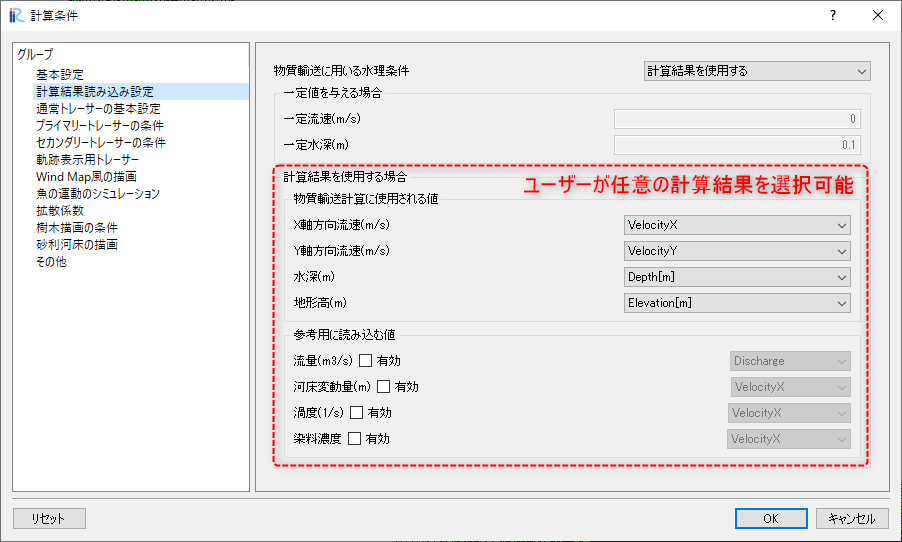
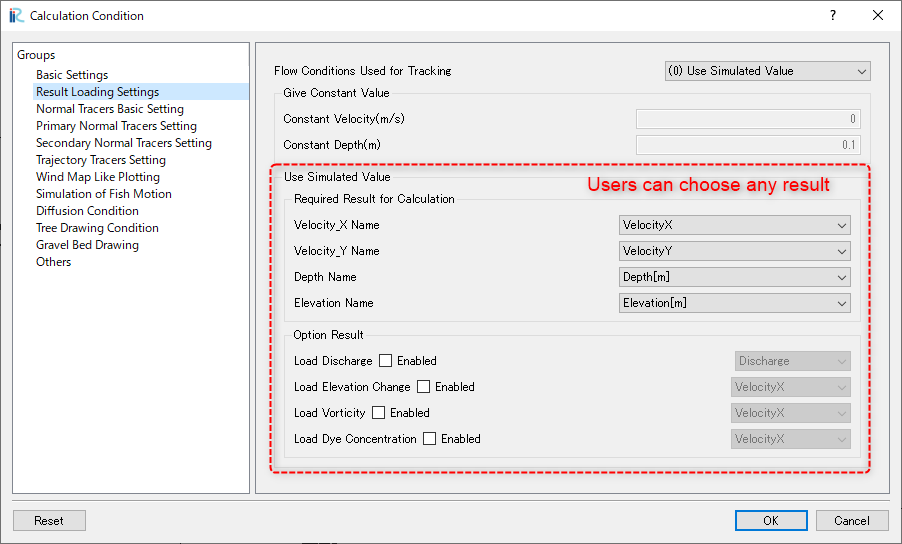
文章、画像の調整

diff --git a/source/03_Examples/03_Real_River.rst b/source/03_Examples/03_Real_River.rst
@@ -312,7 +312,7 @@ Launching GELATO and Importing Grid
 From the iRIC startup screen, select [New Project], choose "GELATO ver2.x" from the solver selection screen, and click "OK".
 
 .. figure:: images/01/GELATO/kido.png
-   :width: 800pt
+   :width: 60%
 
    : Selecting and Launching GELATO
 
@@ -324,28 +324,28 @@ The GELATO session starts, and a dialog for selecting the input CGNS file appear
 
    : Launching GELATO
   
-Click the `...` button to open the file selection dialog, and select the CGNS file of the Nays2d+Flow calculation result.
+Click the `...` button to open the file selection dialog, and select the CGNS file of the "Nays2d+Flow" calculation result.
 
 .. figure:: images/03/GELATO/import_grid_1.png
    :width: 60%
 
    : Selecting the Calculation Result CGNS File
 
-The information of the selected CGNS file is displayed in the dialog, click `OK`.
+The information of the selected CGNS file is displayed in the dialog, click :guilabel:`OK`.
 
 .. figure:: images/03/GELATO/import_grid_2.png
    :width: 30%
 
    : Selecting the Calculation Result CGNS File
 
-A dialog asking whether to import the grid appears, click `Yes`.
+A dialog asking whether to import the grid appears, click :guilabel:`Yes`.
 
 .. figure:: images/01/GELATO/import_grid_3.png
    :width: 30%
 
    : Importing Grid
 
-An error like the one below appears, but this always happens when trying to read the grid of a different solver, so just click `Yes`.
+An error like the one below appears, but this always happens when trying to read the grid of a different solver, so just click :guilabel:`Yes`.
 
 .. figure:: images/02/GELATO/import_grid_3.png
    :width: 40%
@@ -370,21 +370,21 @@ Checking Terrain Data
 
    : Selecting Property
 
-From the project property screen, select `Edit` for the coordinate system.
+From the project property screen, select :guilabel:`Edit` for the coordinate system.
 
 .. figure:: images/03/GELATO/coordinate_setting_02.png
-   :width: 400pt
+   :width: 30%
 
    : Project Property
 
-In the coordinate system selection screen, type [japan] in the search box, select [EPSG:6674:JGD2011 / Japan Plane Rectangular CS VI], and click `OK`, then close the project property screen.
+In the coordinate system selection screen, type [japan] in the search box, select [EPSG:6674:JGD2011 / Japan Plane Rectangular CS VI], and click :guilabel:`OK`, then close the project property screen.
 
 .. figure:: images/03/GELATO/coordinate_setting_03.png
    :width: 400pt
 
    : Selecting Coordinate System
 
-From the object browser, select the background image (Internet) of the Geospatial Information Authority of Japan (standard map).
+From the object browser, select the "background image (Internet)" of the "国土地理院(標準地図)".
 
 .. _03_030:
 
@@ -399,7 +399,7 @@ Tracer Tracking Simulation by GELATO
 Setting Calculation Condition
 ^^^^^^^^^^^^^^^^^^^^^^^^^^^^^^^^^^^^^^^^^^^^^^^^^^^^^^^^^^^^^^^^^^^^^^^^^^^^^^^^^^^^^^^^^^^^^^^^^^^^^^^^^^^^^^^^^^^^^^^^
 | From the menu bar, select :menuselection:`Calculation Condition --> Settings` to open the calculation condition setting window, and set the parts surrounded by red frames as follows.
-| Other Calculation Condition can be left as default.
+| Other calculation condition can be left as default.
 
 .. figure:: images/03/GELATO/setting_01.png
    :width: 600pt
@@ -425,7 +425,7 @@ Executing the Calculation
 Displaying Calculation Result
 ^^^^^^^^^^^^^^^^^^^^^^^^^^^^^^^^^^^^^^^^^^^^^^^^^^^^^^^^^^^^^^^^^^^^^^^^^^^^^^^^^^^^^^^^^^^^^^^^^^^^^^^^^^^^^^^^^^^^^^^^
 | From the main menu, select :menuselection:`Calculation Result --> Open new 2D Post-Processing Window` to display the 2D visualization window.
-| From the object browser, right-click [Trajectory] under [Polygon], and select [Properties].
+| From the object browser, right-click [Trajectory] under [Polygon], and select [Property].
 
 .. figure:: images/03/GELATO/visualization_02.png
    :width: 100%
@@ -439,7 +439,7 @@ Displaying Calculation Result
 
    : Polygon Settings
 
-| Similarly, from the object browser, select [Velocity (m/s) (Magnitude)] under [Scalar (Grid Point)], right-click and select [Properties].
+| Similarly, from the object browser, select [Velocity (m/s) (Magnitude)] under [Scalar], right-click and select [Property].
 | In the scalar setting screen, enter values as shown below, and uncheck [Draw below minimum value].
 
 .. figure:: images/03/GELATO/visualization_04.png

diff --git a/source/05_Update.rst b/source/05_Update.rst
@@ -18,10 +18,10 @@ Handling of Time Steps
 
    : Handling of time steps in previous versions of GELATO
 
-| As shown in the figure, GELATO could output results at finer time steps than the time steps of the loaded calculation result by using the Output Frequency Increase Factor, but the following problems existed:
+| As shown in the figure, GELATO could output results at finer time steps than the time steps of the loaded calculation result by using the :guilabel:`Output Frequency Increase Factor` , but the following problems existed:
 
 - The initial time step of the loaded calculation result was not output.
-- Changing the Output Frequency Increase Factor caused the time steps of the loaded calculation result and GELATO's time steps to not match.
+- Changing the :guilabel:`Output Frequency Increase Factor` caused the time steps of the loaded calculation result and GELATO's time steps to not match.
 
 | Due to the above specifications, the output intervals of tracers in GELATO were misaligned, and changing the Output Frequency Increase Factor resulted in different tracer tracking results.
 
@@ -64,7 +64,7 @@ Loading Flow Calculation Result
    For example, for water depth, it could only be read if the solver output the name as :guilabel:`Depth(m)`, :guilabel:`Depth[m]`, :guilabel:`Depth`, or :guilabel:`depth(m)`.
 
 | Therefore, in GELATO ver2.x, the specification has been changed to allow the user to select the target by checking what names of calculation result are in the CGNS file of the loaded calculation result.
-| As a result, although it no longer automatically reads as before, it is possible to read any CGNS file that outputs flow velocity, water depth, or bed elevation, regardless of which solver was used to calculate it.
+| As a result, although it no longer automatically reads as before, it is possible to read any CGNS file that outputs flow velocity, depth, and bed elevation, regardless of which solver was used to calculate it.
 
 .. figure:: images/05/select_result_new.png
    :width: 600pt
@@ -168,11 +168,11 @@ Additional Information for Fish
 | Previously, the information output to the fish polygons was only the Type, which only identified groups of fish with the same body length, and if the jump feature was enabled, the type was replaced with information on whether the fish were jumping or not.
 | In ver2.x, the following information is added to the fish polygons:
 
-- Index of the group the fish belongs to
+- Fish Group
 - Fish index
-- Jump status (whether the fish jumped between time steps)
-- Cruising status (whether the fish is cruising or dashing)
-- Below activity limit mode (whether the fish is in the period of handling below activity limit at the time of output)
+- Jump Mode (whether the fish jumped between time steps)
+- Swim Mode (whether the fish is cruising or dashing)
+- Under Critical Depth Mode (whether the fish is in the period of handling below activity limit at the time of output)
 
 .. figure:: images/05/fish_info.png
    :width: 300pt

diff --git a/source/03_Examples/02_Symple_Bend.rst b/source/03_Examples/02_Symple_Bend.rst
@@ -613,7 +613,7 @@ Launching GELATO and Importing Grid
 From the iRIC startup screen, select [Create New Project], and in the solver selection screen that appears, select "GELATO ver2.x" and click "OK".
 
 .. figure:: images/01/GELATO/kido.png
-   :width: 800pt
+   :width: 60%
 
    : Selecting and Launching GELATO
 
@@ -727,7 +727,7 @@ Displaying Calculation Result
 
    : Image Rotation
 
-| The time display is very small and hard to see, so right-click [Time] in the object browser, display [Time Settings] from [Properties], and appropriately increase the font size.
+| The time display is very small and hard to see, so right-click [Time] in the object browser, display [Time Settings] from [Property], and appropriately increase the font size.
 
 .. figure:: images/02/GELATO/time_size_setting.png
    :width: 100%
@@ -828,7 +828,7 @@ Tracer Cloning
 
       : Scalar Setting_2
 
-1. In the [Scalar Settings] window, set it as follows and click :guilabel:`OK`.
+3. In the [Scalar Settings] window, set it as follows and click :guilabel:`OK`.
 
    .. figure:: images/02/GELATO/scalar_setting_3_3.png
       :width: 60%
@@ -858,7 +858,7 @@ Visualization of Flow Using Tracer Clones
 
    : Setting Calculation Conditions_2
 
-| After setting, check :guilabel:`Primary Normal Tracers` -> :guilabel:`Scalar`, uncheck :guilabel:`Scalar (Cell Center)` -> :guilabel:`Weighted Particle Number (Primary)`, and play the animation, it looks like the following.
+| After setting, run simulation, and check :guilabel:`Primary Normal Tracers` -> :guilabel:`Scalar`, uncheck :guilabel:`Scalar (Cell Center)` -> :guilabel:`Weighted Particle Number (Primary)`, and play the animation, it looks like the following.
 
 .. figure:: images/02/GELATO/A_10_clone_visualization_animation.gif
    :width: 60%

diff --git a/source/03_Examples/01_Straight.rst b/source/03_Examples/01_Straight.rst
@@ -213,7 +213,7 @@ Velocity Vectors
 ^^^^^^^^^^^^^^^^^^^^
 
 In the [Object Browser], put check marks in the boxes by [Arrow] and [Velocity], click Focus on [Arrow] 
-and click the right mouse button [Properties]. Vector setting" window as :numref:`01_kekka_2` appears. 
+and click the right mouse button [Property]. Vector setting" window as :numref:`01_kekka_2` appears. 
 Set the values in the red line and click [OK].  
 :numref:`01_kekka_6` is the depth-averaged velocity vector. Here, the velocity 
 distribution is uniform under the constant flow condition.
@@ -251,7 +251,7 @@ Uncheck "Vectors" in the Object Browser, and put check marks in "Particles" and 
 
    : Particles(1)
  
-Right click [Particle] and select [Properties] as 
+Right click [Particle] and select [Property] as 
 :numref:`01_kekka_10` .
 
 .. _01_kekka_10:

diff --git a/source/02_Overview/01_Parameter.rst b/source/02_Overview/01_Parameter.rst
@@ -65,7 +65,6 @@ Use Original Time
 
 .. warning::
    When this parameter is enabled, all time-related parameters must be specified in the time of the loaded calculation result.
-      - ::ref:`Computation Finishing Time`
 
 Drawing Center Line
 ------------------------------------------------------------------------------------------------------------------------
